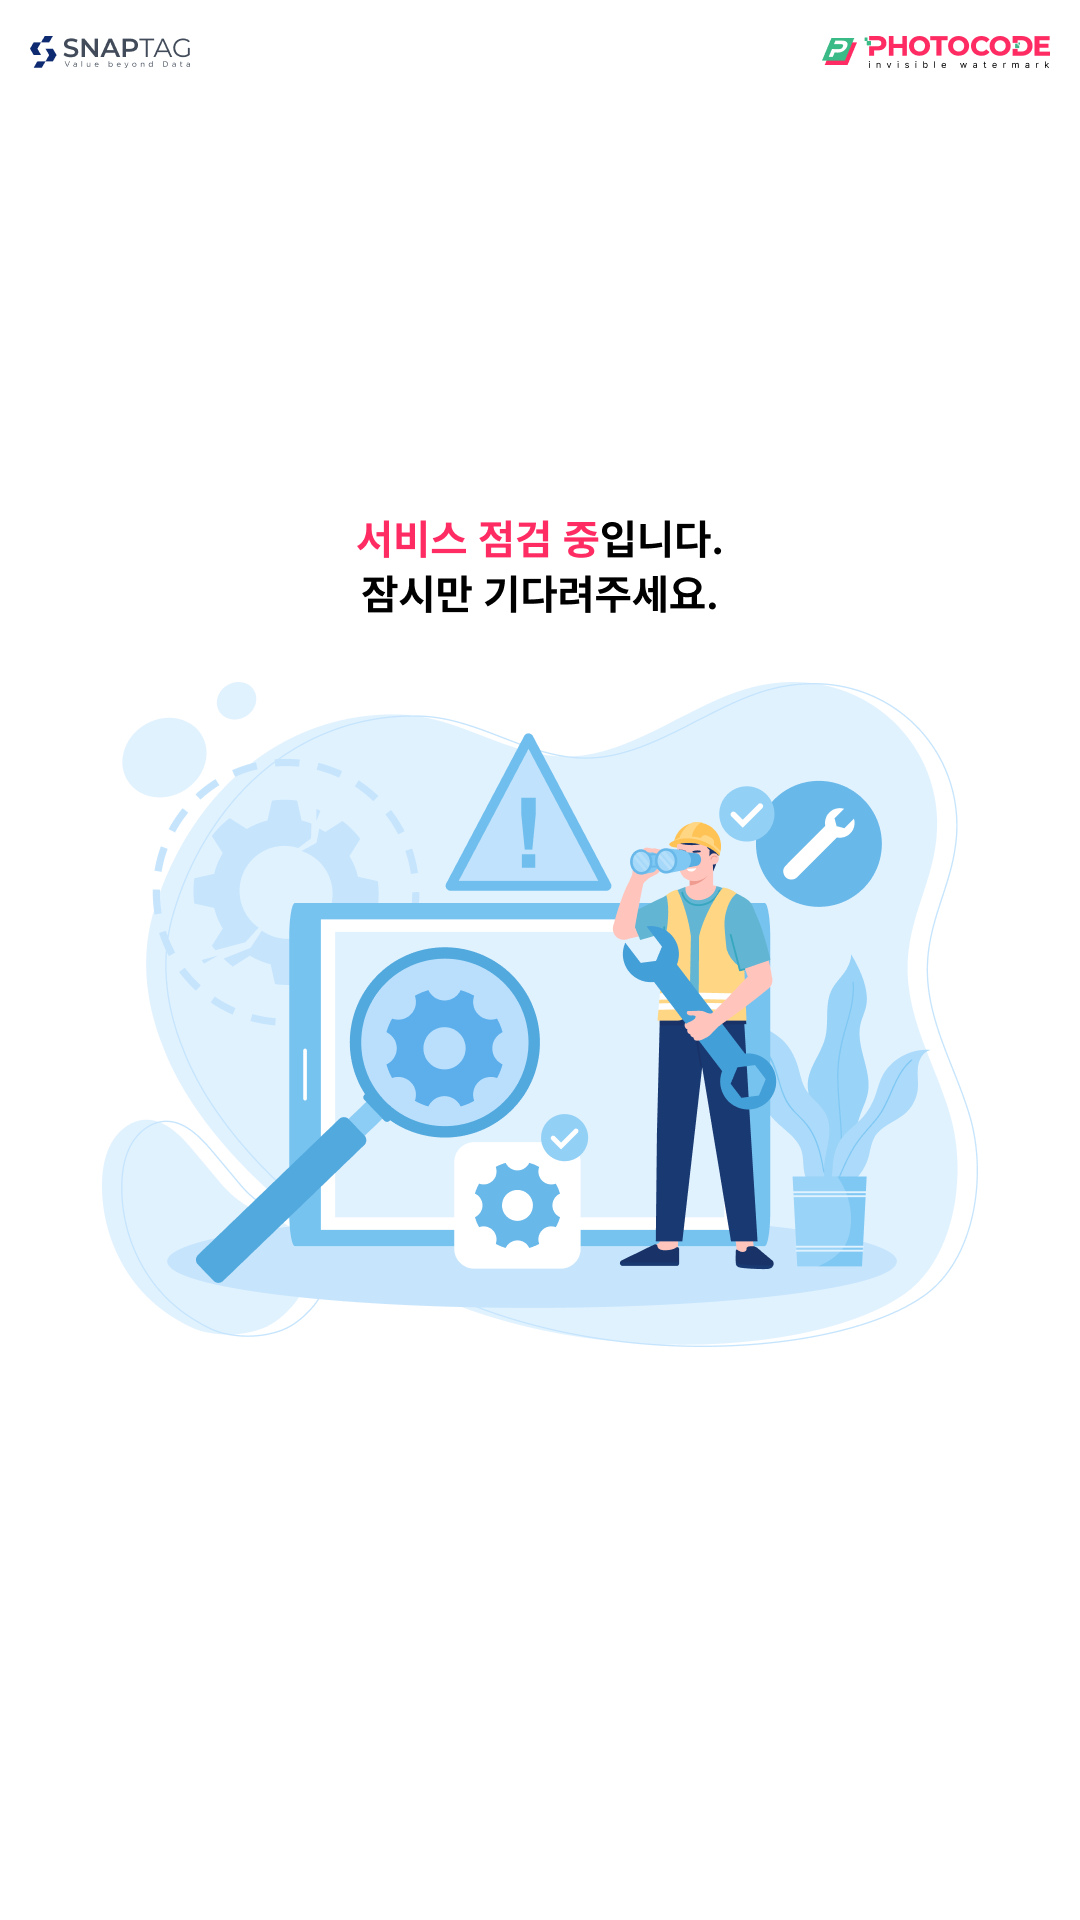
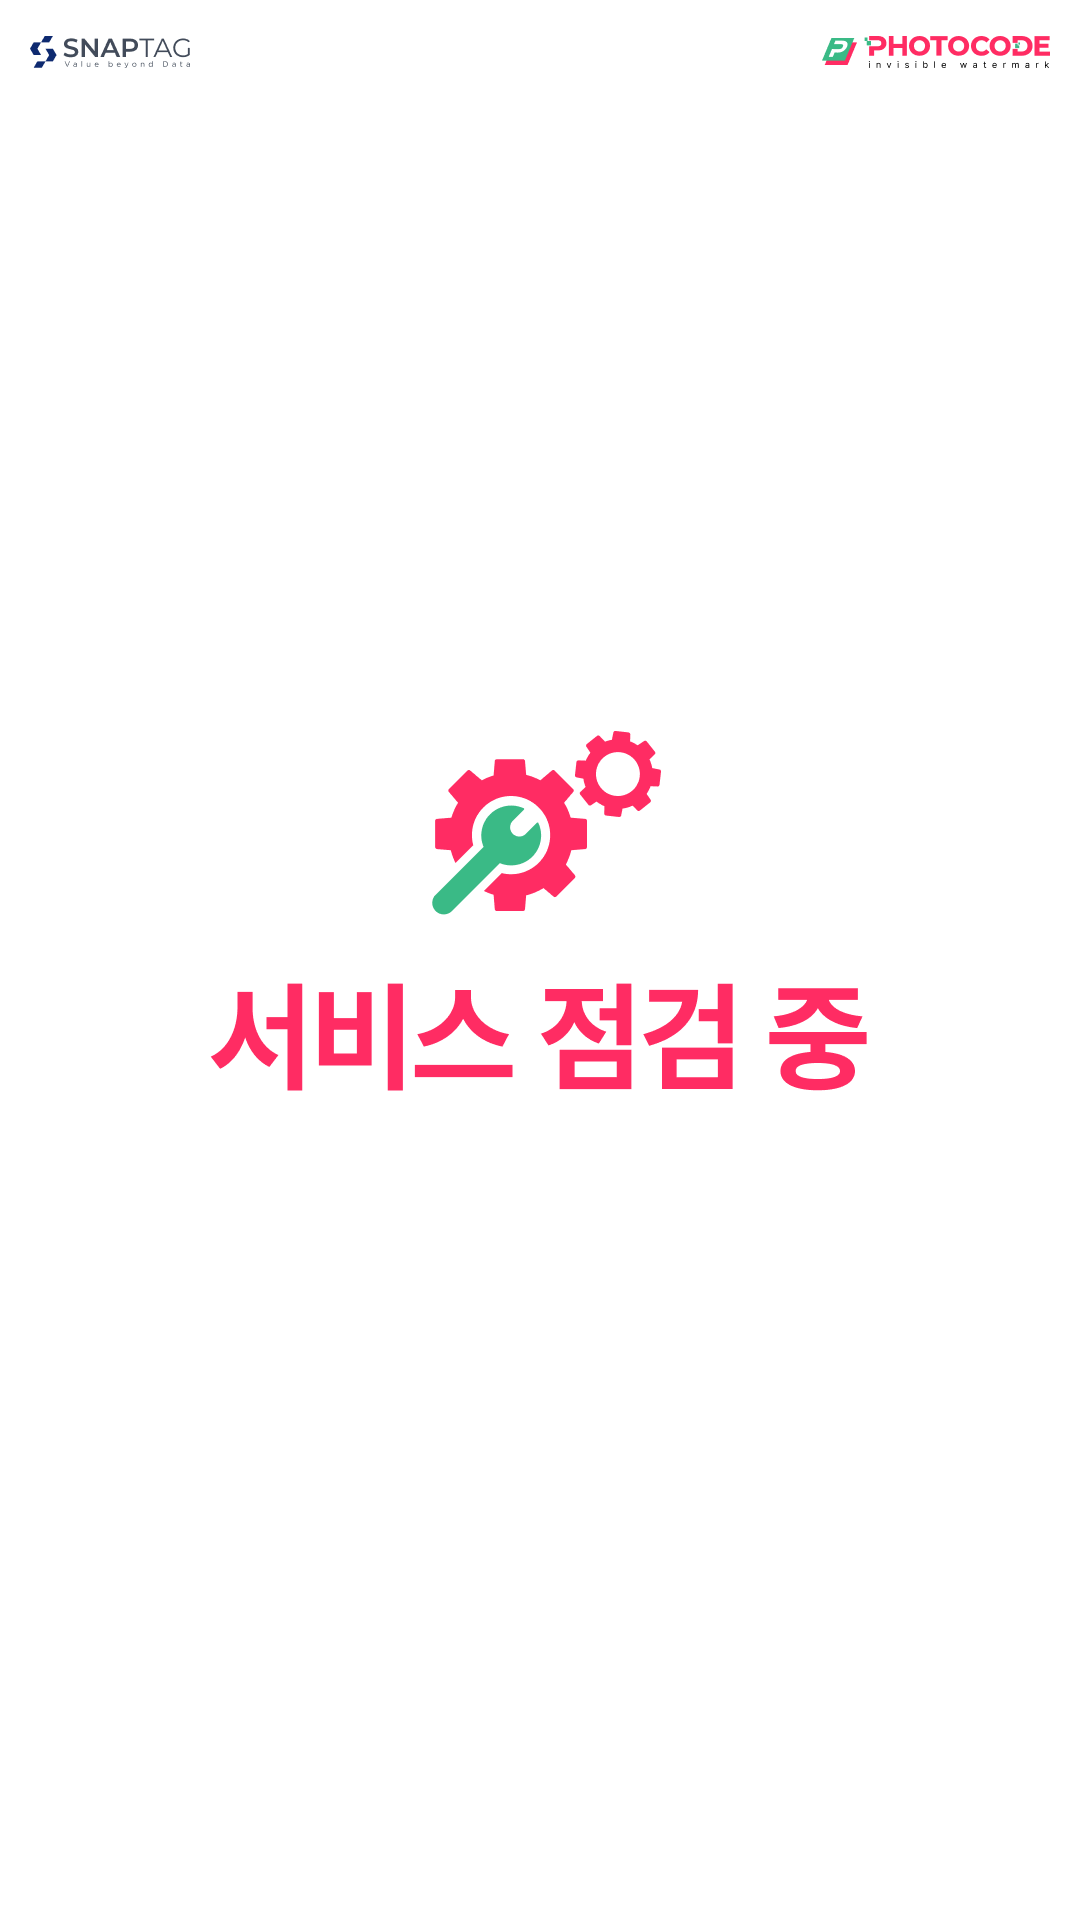
feat: 프린트 단면_양면 인쇄 기능 비활성화 - Setup화면 내 프린트 단면_양면 관련 UI 제거 - 인쇄 모드 기본값 변경 (none->double) - 좌상단 프린트 뱃지 제거 - 점검 중 화면 이미지 변경

Changed region(s): [[0.0917, 0.3438, 0.8861, 0.7188], [0.3361, 0.25, 0.6722, 0.3438]]

diff --git a/lib/features/move_me/screens/setup_main_screen.dart b/lib/features/move_me/screens/setup_main_screen.dart
@@ -64,7 +64,7 @@ class SetupMainScreen extends ConsumerWidget {
               ),
             ),
             SizedBox(height: 50.h),
-            Center(
+            /*Center(
                 child: Text(
                   '*인쇄 모드를 선택 후 미리보기를 해주세요.',
                   style: context.typography.kioskBody1B.copyWith(color: Colors.red),
@@ -114,7 +114,7 @@ class SetupMainScreen extends ConsumerWidget {
                 thickness: 1.h,
                 height: 0,
               ),
-            ),
+            ),*/
             Row(
               crossAxisAlignment: CrossAxisAlignment.center,
               mainAxisAlignment: MainAxisAlignment.center,

diff --git a/lib/locale_keys.dart b/lib/locale_keys.dart
@@ -29,5 +29,5 @@ abstract class LocaleKeys {
   static const alert_btn_print_failure = 'alert_btn_print_failure';
   static const alert_title_card_refill = 'alert_title_card_refill';
   static const alert_txt_card_refill = 'alert_txt_card_refill';
-  static const alert_btn_card_refill = 'alert_btn_card_refill';
+  static const alert_btn_card_refill = 'alert_btn_print_failure'; //'확인' 문구로 동일
 }

diff --git a/lib/features/move_me/screens/kiosk_shell.dart b/lib/features/move_me/screens/kiosk_shell.dart
@@ -99,11 +99,11 @@ class KioskShell extends ConsumerWidget {
       floatingActionButtonLocation: FloatingActionButtonLocation.endTop,
       floatingActionButton: TripleTapFloatingButton(),
     ),
-        const Positioned(
+        /*const Positioned(
           top: 20,
           left: 20,
           child: FloatingPrinterStatusBadge(),
-        ),
+        ),*/
       ],
     );
   }

diff --git a/lib/features/move_me/providers/page_print_provider.dart b/lib/features/move_me/providers/page_print_provider.dart
@@ -5,7 +5,7 @@ part 'page_print_provider.g.dart';
 @Riverpod(keepAlive: true)
 class PagePrint extends _$PagePrint {
   @override
-  PagePrintType build() => PagePrintType.none;
+  PagePrintType build() => PagePrintType.double; //단면_양면 기능 적용시 none
 
   void switchType() {
     state = state == PagePrintType.double ? PagePrintType.single : PagePrintType.double;
